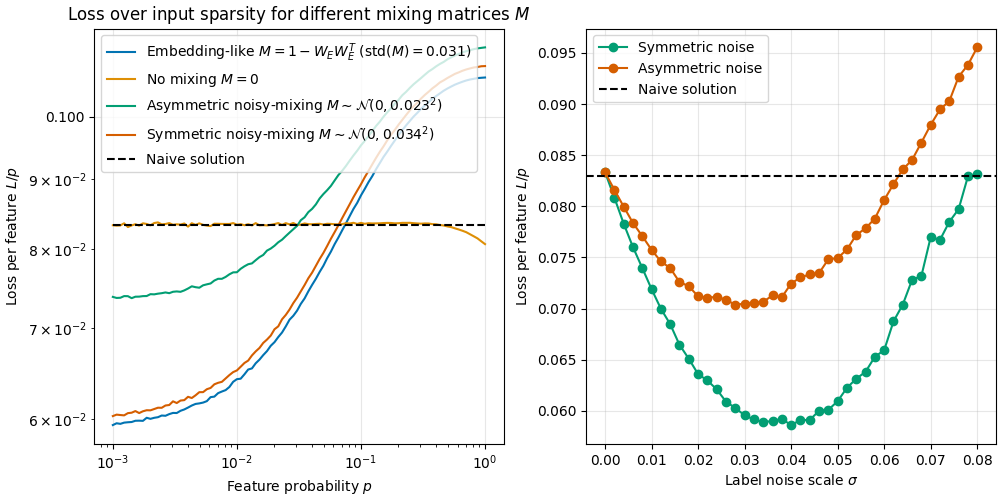
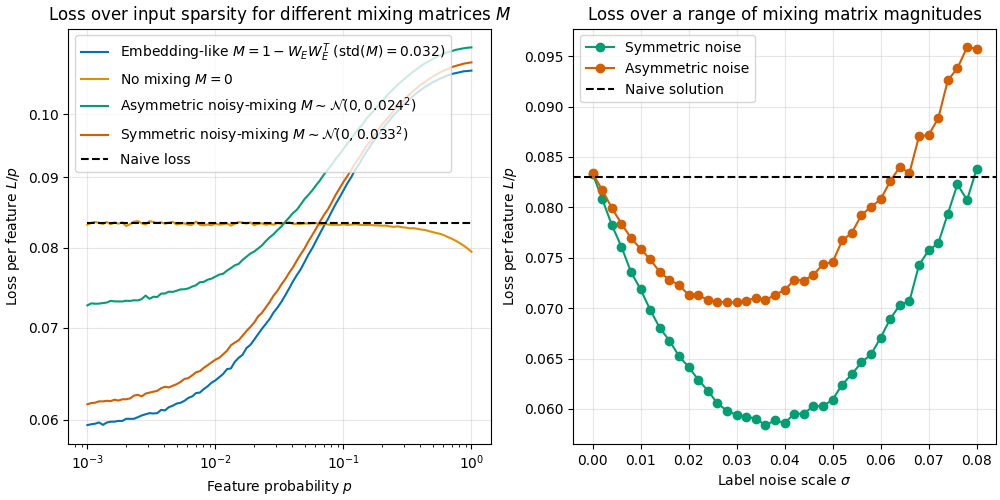
Optimize figures

diff --git a/paper_code/mlpinsoup.py b/paper_code/mlpinsoup.py
@@ -63,9 +63,13 @@ class MLP(nn.Module):
         if n_features > d_mlp:
             self.w_out.data[:, d_mlp:n_features] = bias_strength
 
-    def plot_weights(self) -> plt.Figure:
+    def plot_weights(self, axes: list[plt.Axes] | None = None, share_v: bool = True) -> plt.Figure:
         """Plot the weights of the MLP."""
-        fig, axes = plt.subplots(1, 2, constrained_layout=True, figsize=(10, 5))
+        if axes is None:
+            fig, axes = plt.subplots(1, 2, constrained_layout=True, figsize=(10, 5))
+        else:
+            assert len(axes) == 2, "Must provide exactly 2 axes"
+            fig = axes[0].get_figure()
         cmap = plt.cm.get_cmap("RdBu")
 
         axes[0].set_title("W_in")
@@ -73,18 +77,20 @@ class MLP(nn.Module):
 
         absmax = self.w_in.data.abs().max()
         im0 = axes[0].imshow(self.w_in.data.detach().cpu().numpy(), cmap=cmap, vmin=-absmax, vmax=absmax)
-        absmax = self.w_out.data.abs().max()
+        if not share_v:
+            absmax = self.w_out.data.abs().max()
         im1 = axes[1].imshow(self.w_out.data.T.detach().cpu().numpy(), cmap=cmap, vmin=-absmax, vmax=absmax)
 
-        fig.colorbar(im0, ax=axes[0], fraction=0.046, pad=0.04)
+        if not share_v:
+            fig.colorbar(im0, ax=axes[0], fraction=0.046, pad=0.04)
         fig.colorbar(im1, ax=axes[1], fraction=0.046, pad=0.04)
 
         return fig
 
-    def plot_input_output_behaviour(self, ax: plt.Axes | None = None) -> plt.Figure:
+    def plot_input_output_behaviour(self, ax: plt.Axes | None = None, palette: str = "viridis") -> plt.Figure:
         """Plot the input-output behaviour of the MLP."""
         fig, ax = plt.subplots(constrained_layout=True) if ax is None else (ax.get_figure(), ax)
-        cmap = plt.cm.get_cmap("viridis")
+        cmap = plt.cm.get_cmap(palette)
         for i in range(self.n_features):
             test_input = torch.zeros(1024, self.n_features, device=self.device)
             test_input[:, i] = torch.linspace(-1, 1, 1024, device=self.device)
@@ -99,9 +105,8 @@ class MLP(nn.Module):
         fig.suptitle("Input-output behaviour for individual features")
         return fig
 
-    def plot_weight_bars(self, bar_label: str = "MLP neuron index", cmap: bool = True, ax: plt.Axes | None = None) -> plt.Axes:
+    def plot_weight_bars(self, bar_label: str = "MLP neuron index", cmap: bool = True, ax: plt.Axes | None = None, palette: str = "inferno") -> plt.Axes:
         """Plots weights for each input_feature-hidden_neuron pair as stacked bars. Closely follows Jai's toy-model-of-computation-in-superposition/toy_cis/plot.py"""
-        palette = "inferno"
         W = einops.einsum(self.w_in, self.w_out, "n_features d_mlp, d_mlp n_features -> d_mlp n_features")
         W = W.cpu().detach().numpy()
         d_mlp, n_features = W.shape

diff --git a/paper_code/nb3_svd_nmf.py b/paper_code/nb3_svd_nmf.py
@@ -113,14 +113,18 @@ ax_bottom_left.set_xlabel("Eigen- / singular vector index", ha="left")
 fig.savefig("plots/nb3_eigenvecrtors_svd_comparison.png")
 plt.show()
 
-#  %% Compare W_out @ W_in and M_scaled entry correlation
-
-fig = compare_WoutWin_Mscaled(trained_model_noisy, noisy_dataset)
-fig.savefig("plots/nb3a_WoutWin_Mscaled_noisy.png")
-
-# %% Plot weights
-fig = trained_model_noisy.plot_weights()
-fig.savefig("plots/nb3b_weights_noisy.png")
+#  %% Compare W_out @ W_in and M_scaled entry correlation & plot weights
+fig = plt.figure(constrained_layout=True, figsize=(10, 5))
+gs = gridspec.GridSpec(1, 2, width_ratios=[1, 1.6], figure=fig)
+ax1 = fig.add_subplot(gs[0, 0])
+right_gs = gridspec.GridSpecFromSubplotSpec(1, 2, subplot_spec=gs[0, 1])
+ax2 = fig.add_subplot(right_gs[0, 0])
+ax3 = fig.add_subplot(right_gs[0, 1])
+compare_WoutWin_Mscaled(trained_model_noisy, noisy_dataset, ax=ax1)
+trained_model_noisy.plot_weights(axes=[ax2, ax3])
+ax2.set_title(r"$W_{\rm in}$")
+ax3.set_title(r"$W_{\rm out}^T$")
+fig.savefig("plots/nb3a_WoutWin_Mscaled_plus_weights.png")
 plt.show()
 
 # %% Semi-NMF solution
@@ -128,7 +132,7 @@ plt.show()
 scales = []
 losses = []
 models = []
-for scale in [0.0, 0.005, 0.008, 0.01, 0.015, 0.02, 0.03, 0.05]:
+for scale in [0.0, 0.005, 0.008, 0.01, 0.015, 0.02, 0.03, 0.04]:
     noisy_dataset_nmf = NoisyDataset(n_features, p, device=device, exactly_one_active_feature=True, scale=scale)
     target_matrix = np.eye(n_features) + noisy_dataset_nmf.Mscaled.cpu().detach().numpy()
     # NMF
@@ -164,14 +168,14 @@ for scale in [0.0, 0.005, 0.008, 0.01, 0.015, 0.02, 0.03, 0.05]:
     losses.append(semi_nmf_noisy_loss)
     models.append(semi_nmf_model)
 
-fig, ax = plt.subplots(constrained_layout=True)
+fig, ax = plt.subplots(constrained_layout=True, figsize=(6.4, 3))
 ax.plot(scales, losses, label="Semi-NMF solution", marker="o")
 ax.axhline(y=0.0833, color="k", ls="--", label="Naive loss")
 ax.set_xlabel("Dataset label noise scale $\\sigma$")
 ax.set_ylabel("Loss per feature $L / p$")
 ax.grid(True, alpha=0.3)
 ax.legend()
-fig.savefig("plots/nb3c_semi_nmf_solution.png")
+fig.savefig("plots/nb3b_semi_nmf_solution.png")
 plt.show()
 
 for model in models:

diff --git a/paper_code/nb1_sparsity_regimes.py b/paper_code/nb1_sparsity_regimes.py
@@ -36,18 +36,8 @@ for str_p in str_train_ps:
 
 train_ps = [float(p) for p in str_train_ps]
 
-
-# Generate colours
-def get_gradient_colors(start_hex: str, end_hex: str, n_lines: int) -> list[str]:
-    # Convert hex to RGB (0-1 range)
-    start_rgb = np.array(mcolors.to_rgb(start_hex))
-    end_rgb = np.array(mcolors.to_rgb(end_hex))
-
-    # Create linear gradient between start and end
-    return [mcolors.to_hex(start_rgb + (end_rgb - start_rgb) * i / (n_lines - 1)) for i in range(n_lines)]  # type: ignore
-
-
-colors = get_gradient_colors("#1abc9c", "#9b59b6", len(str_train_ps))  # purple to teal gradient
+colors = plt.get_cmap("viridis")(np.linspace(0.15, 0.85, len(str_train_ps)))
+colors = [mcolors.to_hex(c) for c in colors]  # Convert to hex strings for compatibility
 fig = plot_loss_of_input_sparsity(models, apd_dataset, ps=plot_ps, labels=labels, highlight_ps=train_ps, colors=colors)
 fig.suptitle("Loss over input sparsity for different input feature probabilities $p$")
 fig.savefig("./plots/nb1_sparsity_regimes.png")
@@ -55,15 +45,12 @@ fig.savefig("./plots/nb1_sparsity_regimes.png")
 # Plot the input-output behaviour of one sparse and dense model, for illustration
 fig, (ax1, ax2) = plt.subplots(1, 2, constrained_layout=True, figsize=(10, 5), sharey=True)  # type: ignore
 fig.suptitle("Input-output behaviour for individual features")
-models[0].plot_input_output_behaviour(ax1)
+models[0].plot_input_output_behaviour(ax1, palette="plasma")
 ax1.set_title("p=" + str_train_ps[0])
 ax1.grid(True, alpha=0.3)
 x = torch.linspace(-1, 1, 100)
 ax1.plot(x, F.relu(x), color="tab:red", ls="--")
-norm = Normalize(vmin=0, vmax=100)
-sm = plt.cm.ScalarMappable(cmap="viridis", norm=norm)
-fig.colorbar(sm, ax=ax2, fraction=0.046, pad=0.04, label="Feature index")
-models[-1].plot_input_output_behaviour(ax2)
+models[-1].plot_input_output_behaviour(ax2, palette="plasma")
 ax2.plot(x, F.relu(x), color="tab:red", ls="--")
 ax2.set_title("p=" + str_train_ps[-1])
 ax2.grid(True, alpha=0.3)

diff --git a/paper_code/nb4_bias_strength.py b/paper_code/nb4_bias_strength.py
@@ -87,10 +87,13 @@ plot_loss_of_input_sparsity(
     labels=trained_labels + handcoded_labels,
     colors=colors + handcoded_colors,
     linestyles=linestyles + handcoded_linestyles,
-    show_naive=True,
+    show_naive=False,
     ax=ax2,
 )
 ax2.legend().remove()
+ax2.axhline(y=0.0833, color="k", ls=":", label="Naive loss")
+ax2.plot([], [], color="k", ls="-", label="Trained model")
+ax2.plot([], [], color="k", ls="--", label="Naive model")
 ax2.legend(loc="upper left", ncols=2, title="Feature probability")
 ax2.get_yaxis().set_major_formatter(ticker.ScalarFormatter())
 ax2.grid(True, alpha=0.3)

diff --git a/paper_code/nb2_noise_equivalence.py b/paper_code/nb2_noise_equivalence.py
@@ -95,7 +95,7 @@ plt.show()
 # %% Try transplant noisy to clean and fine-tuning
 
 losses_clean_ft = train(resid_transpose_model, clean_dataset, batch_size=batch_size_train, steps=n_steps)
-fig_ft, ax_ft = plt.subplots(constrained_layout=True)
+fig_ft, ax_ft = plt.subplots(constrained_layout=True, figsize=(6.4, 3))
 losses_noisy_avg = np.convolve(losses_noisy, np.ones(100) / 100, mode="valid")
 losses_clean_ft_avg = np.convolve(losses_clean_ft, np.ones(100) / 100, mode="valid")
 scale = noise_dataset.scale.abs().item()
